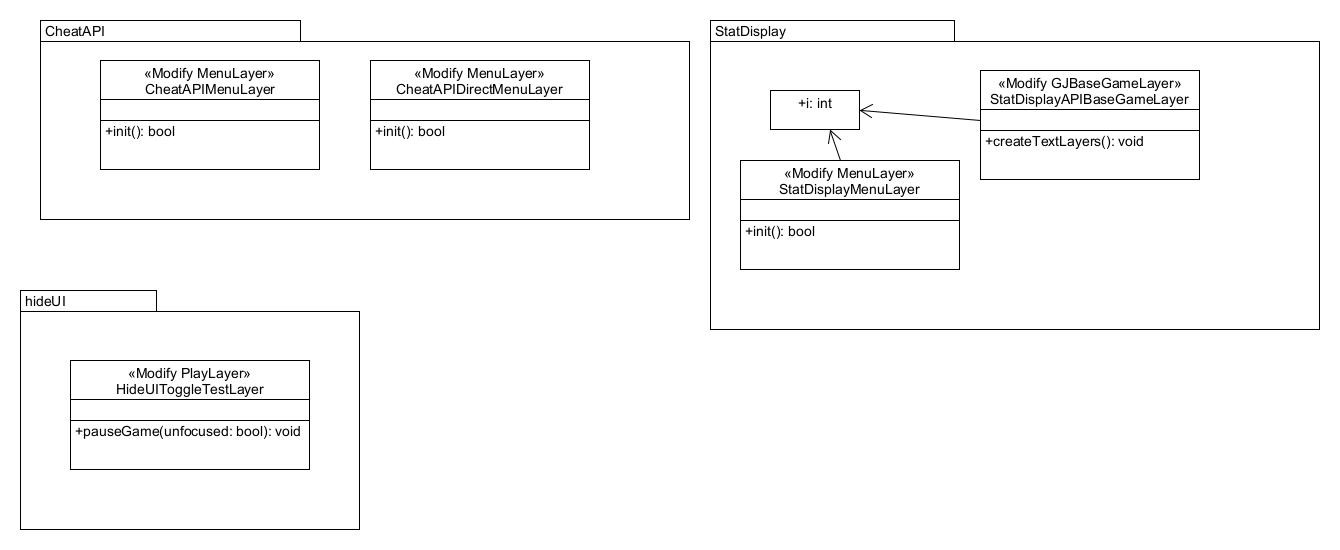
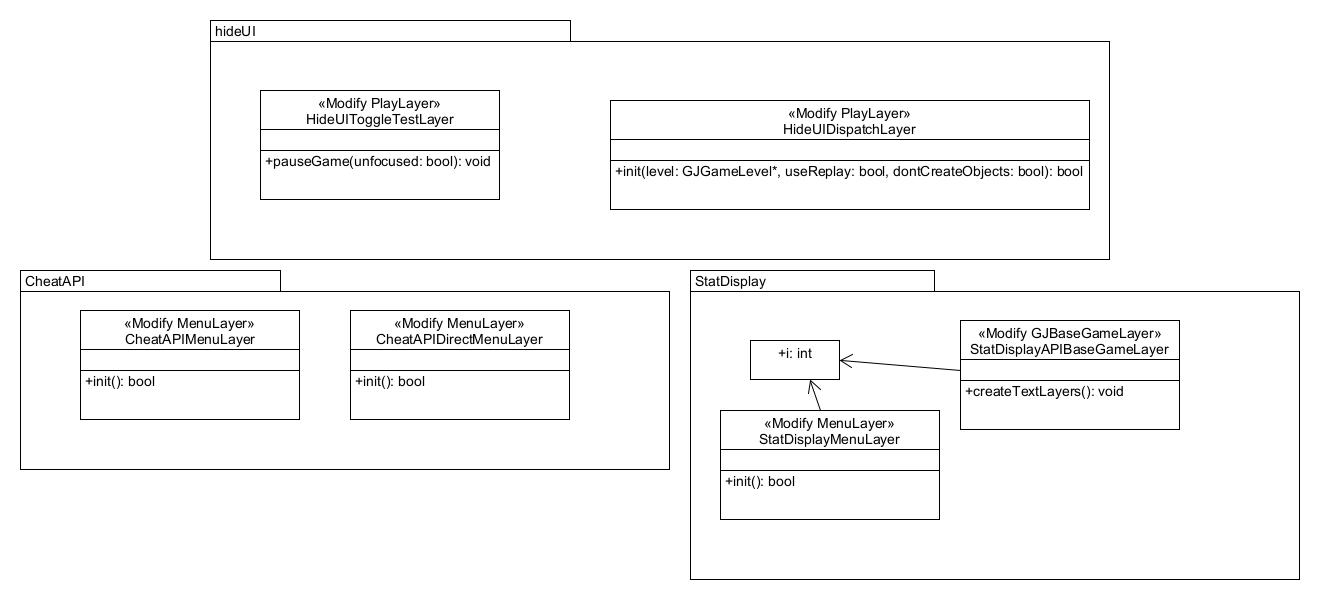
Update the UML diagram and Changelog

diff --git a/changelog.md b/changelog.md
@@ -1,3 +1,6 @@
+# 3.0.0
+- Add support for Hide UI's APIs
+
 # 2.0.1
 - refactoring
 - Add options to selectively turn off API's
